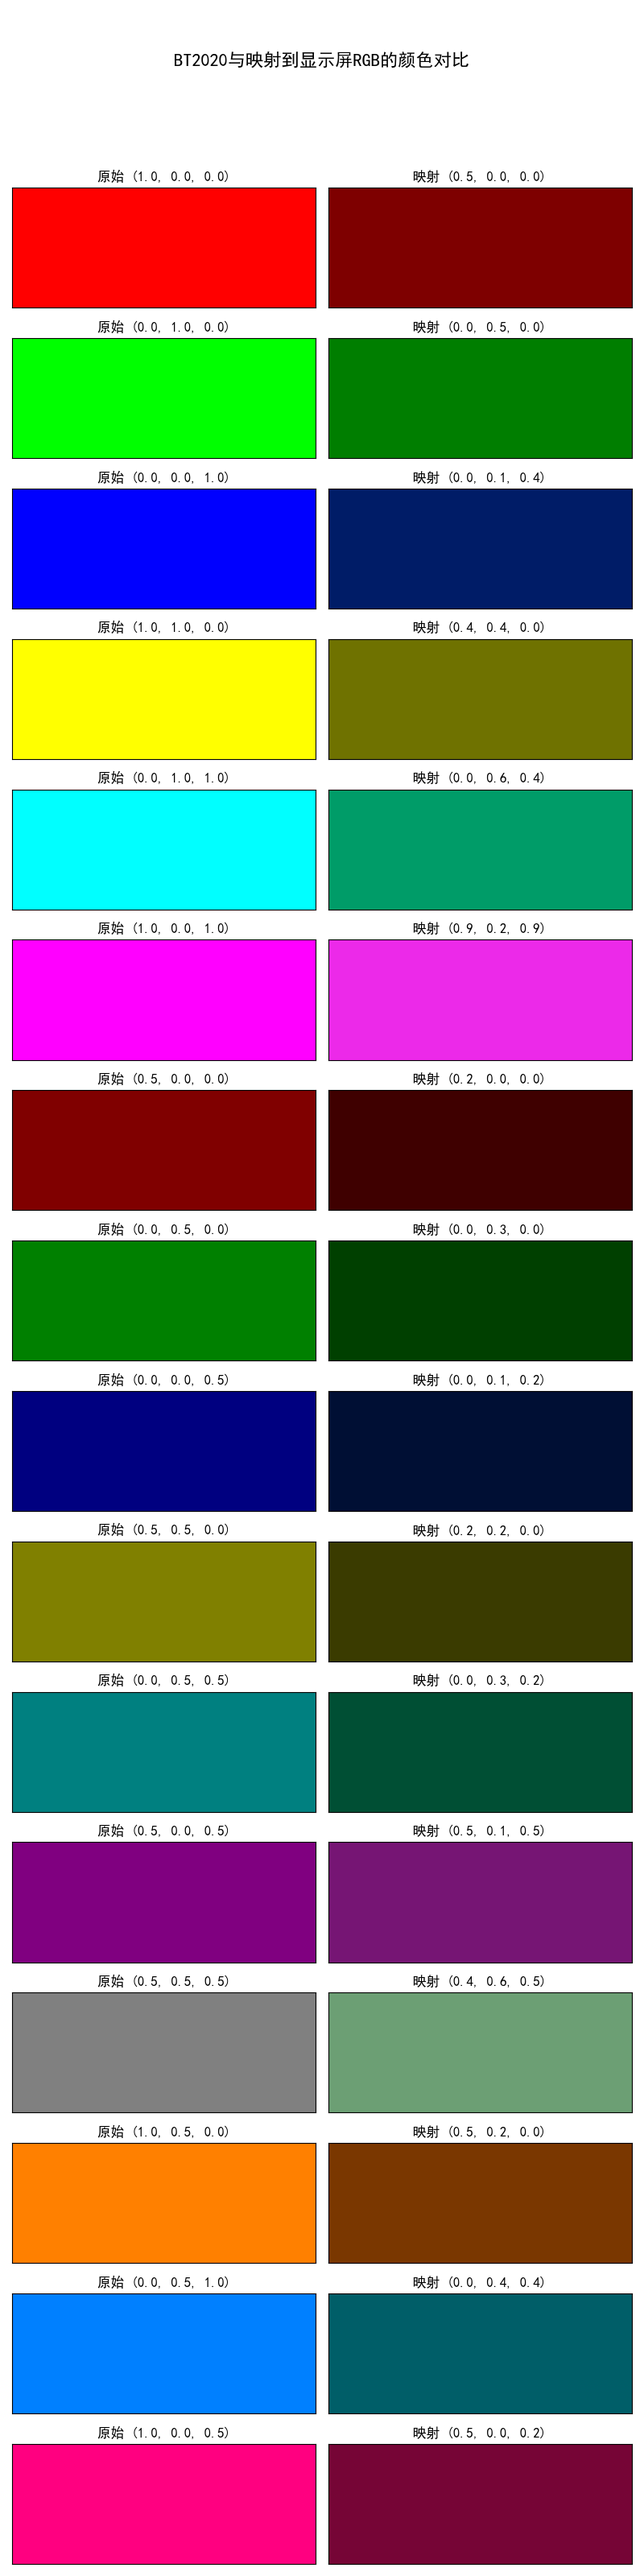
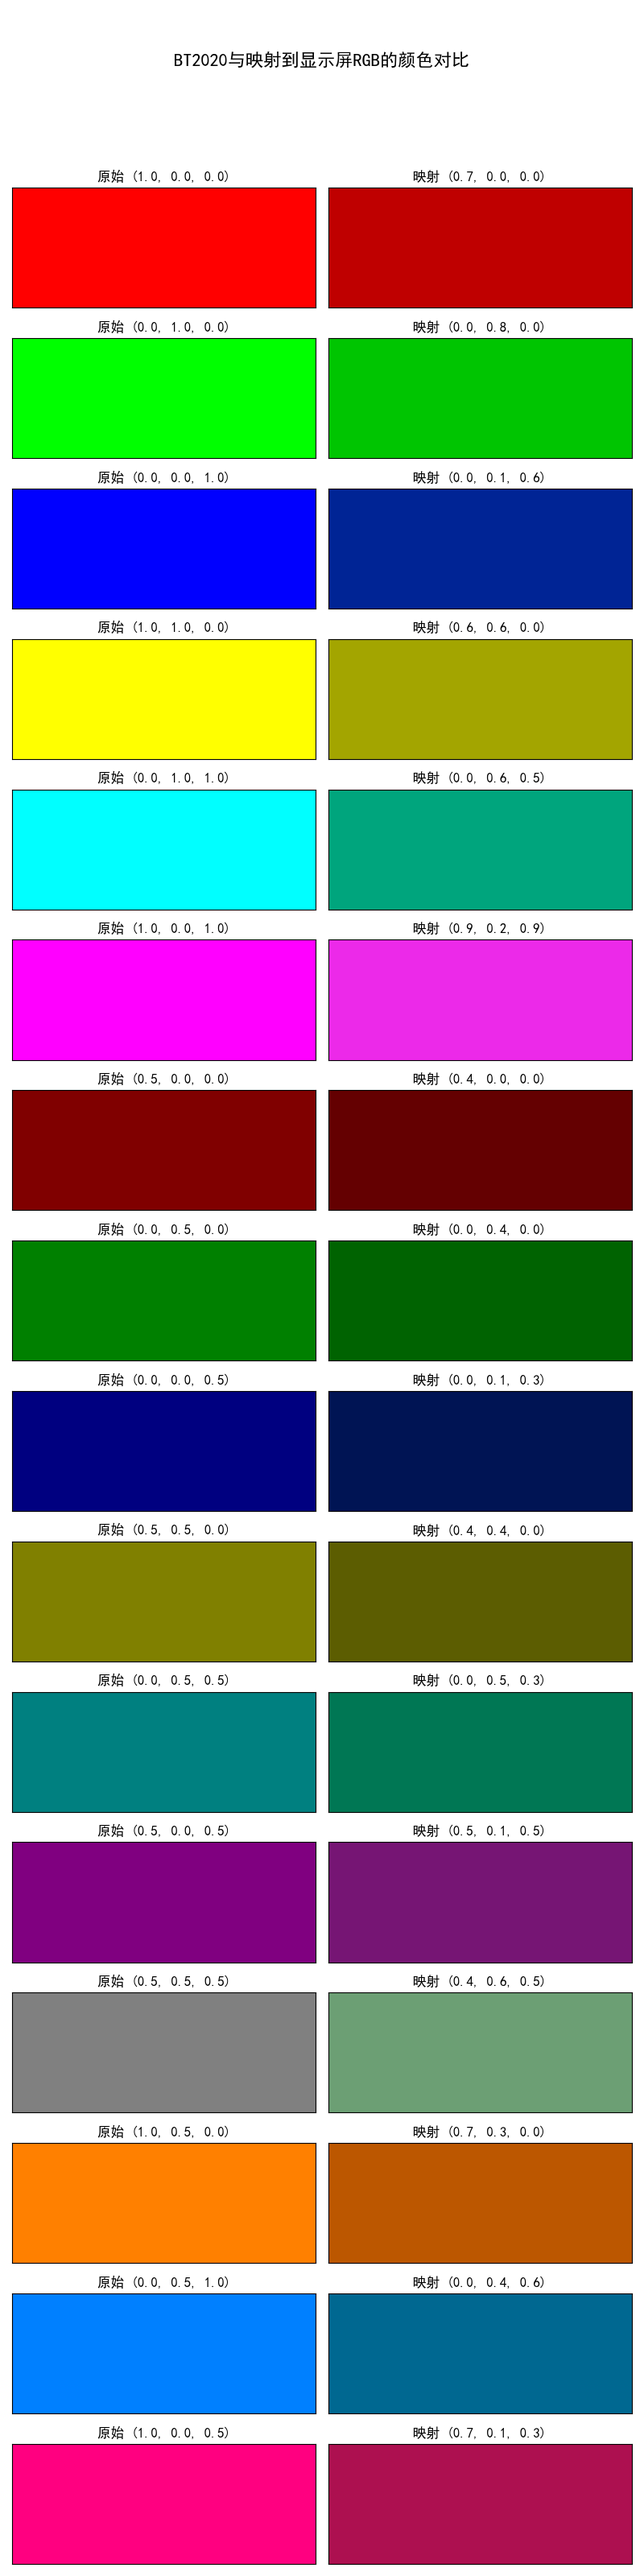
feat: add accury

Changed region(s): [[0.5, 0.4062, 1.0, 0.7188], [0.5, 0.0625, 1.0, 0.3125], [0.5, 0.8125, 1.0, 1.0]]

diff --git a/Q1/new/q1.py b/Q1/new/q1.py
@@ -159,13 +159,13 @@ def compute_primary_matrix():
     # 计算转换矩阵 (从BT2020到显示屏RGB)
     conversion_matrix = np.linalg.inv(DISPLAY_matrix) @ BT2020_matrix
 
-    print("\n原色矩阵分析:")
-    print("BT2020原色矩阵:")
-    print(BT2020_matrix)
-    print("\n显示屏RGB原色矩阵:")
-    print(DISPLAY_matrix)
-    print("\n转换矩阵 (BT2020 -> 显示屏RGB):")
-    print(conversion_matrix)
+    # print("\n原色矩阵分析:")
+    # print("BT2020原色矩阵:")
+    # print(BT2020_matrix)
+    # print("\n显示屏RGB原色矩阵:")
+    # print(DISPLAY_matrix)
+    # print("\n转换矩阵 (BT2020 -> 显示屏RGB):")
+    # print(conversion_matrix)
 
     return BT2020_matrix, DISPLAY_matrix, conversion_matrix
 
@@ -221,6 +221,76 @@ def optimize_conversion(bt2020_rgb):
     print(f"色差改善: {((initial_diff-final_diff)/initial_diff*100):.2f}%")
 
     return np.clip(result.x, 0, 1)  # 确保结果在[0,1]范围内
+
+def analyze_conversion_accuracy():
+    """分析4通道到5通道转换的精度"""
+    # 创建测试颜色集
+    test_colors = [
+        np.array([1.0, 0.0, 0.0]),  # 纯R
+        np.array([0.0, 1.0, 0.0]),  # 纯G
+        np.array([0.0, 0.0, 1.0]),  # 纯B
+        np.array([0.5, 0.5, 0.0]),  # RG混合
+        np.array([0.5, 0.0, 0.5]),  # RB混合
+        np.array([0.0, 0.5, 0.5]),  # GB混合
+        np.array([0.0, 0.0, 0.5]),  # BV混合
+        np.array([0.33, 0.33, 0.33]),  # 均匀混合
+        np.array([0.5, 0.3, 0.2]),  # 复杂混合1
+        np.array([0.2, 0.4, 0.4]),  # 复杂混合2
+        np.array([0.1, 0.1, 0.8]),  # 复杂混合3
+        np.array([0.3, 0.2, 0.5]),  # 复杂混合4
+    ]
+
+    # 获取颜色矩阵
+    BT2020_matrix, DISPLAY_matrix, _ = compute_primary_matrix()
+
+    # 存储结果
+    results = []
+    total_error = 0
+    max_error = 0
+    min_error = float('inf')
+
+    print("\n转换精度分析结果：")
+    print("=" * 50)
+    print("颜色\t\t\t源RGBV\t\t\t目标rgb\t\t\t色差(ΔE)")
+    print("-" * 100)
+
+    for i, color in enumerate(test_colors):
+        # 转换到5通道
+        display_rgb = convert_bt2020_to_display(color)
+
+        # 计算原始颜色和目标颜色的XYZ值
+        BT2020_xyz = np.dot(BT2020_matrix, color)
+        display_xyz = np.dot(DISPLAY_matrix, display_rgb)
+
+        # 计算色差(ΔE)
+        error = np.sqrt(np.sum((BT2020_xyz - display_xyz) ** 2))
+        total_error += error
+        max_error = max(max_error, error)
+        min_error = min(min_error, error)
+
+        # 格式化输出
+        color_name = f"颜色{i+1}"
+        BT2020_str = f"({color[0]:.2f}, {color[1]:.2f}, {color[2]:.2f})"
+        target_str = f"({display_rgb[0]:.2f}, {display_rgb[1]:.2f}, {display_rgb[2]:.2f})"
+        print(f"{color_name}\t{BT2020_str}\t{target_str}\t{error:.4f}")
+
+        results.append({
+            'BT2020': color,
+            'target': display_rgb,
+            'error': error
+        })
+
+    # 计算统计信息
+    avg_error = total_error / len(test_colors)
+    
+    print("\n统计信息：")
+    print("=" * 50)
+    print(f"平均色差(ΔE): {avg_error:.4f}")
+    print(f"最大色差(ΔE): {max_error:.4f}")
+    print(f"最小色差(ΔE): {min_error:.4f}")
+    print(f"色差标准差: {np.std([r['error'] for r in results]):.4f}")
+
+    return results
 
 
 def visualize_color_mapping():
@@ -638,7 +708,7 @@ optimizer = optim.Adam(model.parameters(), lr=0.001)
 losses = []
 
 # 训练模型
-num_epochs = 100
+num_epochs = 200
 for epoch in tqdm(range(num_epochs)):
     epoch_loss = 0
     for batch in dataloader:
@@ -668,7 +738,7 @@ for epoch in tqdm(range(num_epochs)):
         output_Lab = XYZ_to_Lab(output_XYZ)
         
         # 计算CIEDE2000色差
-        batch_loss = delta_e_cie2000_torch(bt2020_Lab, output_Lab).mean()
+        batch_loss = color_difference_torch(bt2020_xy,output_xy)#delta_e_cie2000_torch(bt2020_Lab, output_Lab).mean()
         # batch_loss = 0
         # for i in range(len(bt2020_rgb_batch)):
         #     color1 = XYZColor(bt2020_xy[i, 0], bt2020_xy[i, 1], 1 - bt2020_xy[i, 0] - bt2020_xy[i, 1])
@@ -822,6 +892,39 @@ def main():
         f.write(f"色域覆盖率: {(display_area/bt2020_area*100):.2f}%\n")
 
     print("\n色彩空间转换完成！结果已保存到 color_conversion_results.txt")
+
+    # 分析转换精度
+    results = analyze_conversion_accuracy()
+    
+    # 将结果保存到txt文件
+    with open('accuracy_results_mlp.txt', 'w', encoding='utf-8') as f:
+        
+        f.write("颜色转换精度分析:\n")
+        f.write("=" * 50 + "\n")
+        f.write("颜色\t\t\t源RGBV\t\t\t目标rgb\t\t\t色差(ΔE)\n")
+        f.write("-" * 100 + "\n")
+        
+        for i, result in enumerate(results):
+            color = result['BT2020']
+            target = result['target']
+            error = result['error']
+            f.write(f"颜色{i+1}\t({color[0]:.2f}, {color[1]:.2f}, {color[2]:.2f})\t")
+            f.write(f"({target[0]:.2f}, {target[1]:.2f}, {target[2]:.2f})\t")
+            f.write(f"{error:.4f}\n")
+        
+        # 计算统计信息
+        errors = [r['error'] for r in results]
+        avg_error = sum(errors) / len(errors)
+        max_error = max(errors)
+        min_error = min(errors)
+        std_error = np.std(errors)
+        
+        f.write("\n统计信息:\n")
+        f.write("=" * 50 + "\n")
+        f.write(f"平均色差(ΔE): {avg_error:.4f}\n")
+        f.write(f"最大色差(ΔE): {max_error:.4f}\n")
+        f.write(f"最小色差(ΔE): {min_error:.4f}\n")
+        f.write(f"色差标准差: {std_error:.4f}\n")
 
     # 可视化色彩映射
     mapping_fig = visualize_color_mapping()

diff --git a/Q1/copy/Q-1.py b/Q1/copy/Q-1.py
@@ -369,6 +369,76 @@ def compare_color_patches():
 
     return plt.gcf()
 
+def analyze_conversion_accuracy():
+    """分析4通道到5通道转换的精度"""
+    # 创建测试颜色集
+    test_colors = [
+        np.array([1.0, 0.0, 0.0]),  # 纯R
+        np.array([0.0, 1.0, 0.0]),  # 纯G
+        np.array([0.0, 0.0, 1.0]),  # 纯B
+        np.array([0.5, 0.5, 0.0]),  # RG混合
+        np.array([0.5, 0.0, 0.5]),  # RB混合
+        np.array([0.0, 0.5, 0.5]),  # GB混合
+        np.array([0.0, 0.0, 0.5]),  # BV混合
+        np.array([0.33, 0.33, 0.33]),  # 均匀混合
+        np.array([0.5, 0.3, 0.2]),  # 复杂混合1
+        np.array([0.2, 0.4, 0.4]),  # 复杂混合2
+        np.array([0.1, 0.1, 0.8]),  # 复杂混合3
+        np.array([0.3, 0.2, 0.5]),  # 复杂混合4
+    ]
+
+    # 获取颜色矩阵
+    BT2020_matrix, DISPLAY_matrix, _ = compute_primary_matrix()
+
+    # 存储结果
+    results = []
+    total_error = 0
+    max_error = 0
+    min_error = float('inf')
+
+    print("\n转换精度分析结果：")
+    print("=" * 50)
+    print("颜色\t\t\t源RGBV\t\t\t目标rgb\t\t\t色差(ΔE)")
+    print("-" * 100)
+
+    for i, color in enumerate(test_colors):
+        # 转换到5通道
+        display_rgb = optimize_conversion(color)
+
+        # 计算原始颜色和目标颜色的XYZ值
+        BT2020_xyz = np.dot(BT2020_matrix, color)
+        display_xyz = np.dot(DISPLAY_matrix, display_rgb)
+
+        # 计算色差(ΔE)
+        error = np.sqrt(np.sum((BT2020_xyz - display_xyz) ** 2))
+        total_error += error
+        max_error = max(max_error, error)
+        min_error = min(min_error, error)
+
+        # 格式化输出
+        color_name = f"颜色{i+1}"
+        BT2020_str = f"({color[0]:.2f}, {color[1]:.2f}, {color[2]:.2f})"
+        target_str = f"({display_rgb[0]:.2f}, {display_rgb[1]:.2f}, {display_rgb[2]:.2f})"
+        print(f"{color_name}\t{BT2020_str}\t{target_str}\t{error:.4f}")
+
+        results.append({
+            'BT2020': color,
+            'target': display_rgb,
+            'error': error
+        })
+
+    # 计算统计信息
+    avg_error = total_error / len(test_colors)
+    
+    print("\n统计信息：")
+    print("=" * 50)
+    print(f"平均色差(ΔE): {avg_error:.4f}")
+    print(f"最大色差(ΔE): {max_error:.4f}")
+    print(f"最小色差(ΔE): {min_error:.4f}")
+    print(f"色差标准差: {np.std([r['error'] for r in results]):.4f}")
+
+    return results
+
 
 def main():
     # 绘制色彩空间
@@ -428,6 +498,39 @@ def main():
         f.write(f"色域覆盖率: {(display_area/bt2020_area*100):.2f}%\n")
 
     print("\n色彩空间转换完成！结果已保存到 color_conversion_results.txt")
+
+    # 分析转换精度
+    results = analyze_conversion_accuracy()
+    
+    # 将结果保存到txt文件
+    with open('accuracy_results_mlp.txt', 'w', encoding='utf-8') as f:
+        
+        f.write("颜色转换精度分析:\n")
+        f.write("=" * 50 + "\n")
+        f.write("颜色\t\t\t源RGBV\t\t\t目标rgb\t\t\t色差(ΔE)\n")
+        f.write("-" * 100 + "\n")
+        
+        for i, result in enumerate(results):
+            color = result['BT2020']
+            target = result['target']
+            error = result['error']
+            f.write(f"颜色{i+1}\t({color[0]:.2f}, {color[1]:.2f}, {color[2]:.2f})\t")
+            f.write(f"({target[0]:.2f}, {target[1]:.2f}, {target[2]:.2f})\t")
+            f.write(f"{error:.4f}\n")
+        
+        # 计算统计信息
+        errors = [r['error'] for r in results]
+        avg_error = sum(errors) / len(errors)
+        max_error = max(errors)
+        min_error = min(errors)
+        std_error = np.std(errors)
+        
+        f.write("\n统计信息:\n")
+        f.write("=" * 50 + "\n")
+        f.write(f"平均色差(ΔE): {avg_error:.4f}\n")
+        f.write(f"最大色差(ΔE): {max_error:.4f}\n")
+        f.write(f"最小色差(ΔE): {min_error:.4f}\n")
+        f.write(f"色差标准差: {std_error:.4f}\n")
 
     # 可视化色彩映射
     mapping_fig = visualize_color_mapping()
